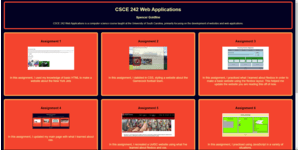
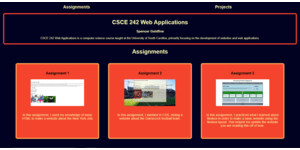
finished iFrame sections

diff --git a/projects/part3/project/script.js b/projects/part3/project/script.js
@@ -2,36 +2,14 @@ const toggleNav = () => {
     document.getElementById("main-nav-items").classList.toggle("hidden");
 }
 
-const toggleBio = () => {
-    document.getElementById("p1of5").classList.toggle("hidden");
-    document.getElementById("p2of5").classList.add("hidden");
-    document.getElementById("p3of5").classList.add("hidden");
-    document.getElementById("p4of5").classList.add("hidden");
-    document.getElementById("p5of5").classList.add("hidden");
+const showWebFrame = () => {
+    document.getElementById("framea").classList.toggle("hidden");
+    document.getElementById("webpic").classList.toggle("hidden");
 }
 
-const toggleExp = () => {
-    document.getElementById("p2of5").classList.toggle("hidden");
-    document.getElementById("p1of5").classList.add("hidden");
-    document.getElementById("p3of5").classList.add("hidden");
-    document.getElementById("p4of5").classList.add("hidden");
-    document.getElementById("p5of5").classList.add("hidden");
-}
-
-const toggleEdu = () => {
-    document.getElementById("p3of5").classList.toggle("hidden");
-    document.getElementById("p1of5").classList.add("hidden");
-    document.getElementById("p2of5").classList.add("hidden");
-    document.getElementById("p4of5").classList.add("hidden");
-    document.getElementById("p5of5").classList.add("hidden");
-}
-
-const toggleCont = () => {
-    document.getElementById("p5of5").classList.toggle("hidden");
-    document.getElementById("p1of5").classList.add("hidden");
-    document.getElementById("p2of5").classList.add("hidden");
-    document.getElementById("p3of5").classList.add("hidden");
-    document.getElementById("p4of5").classList.add("hidden");
+const showModernFrame = () => {
+    document.getElementById("frameb").classList.toggle("hidden");
+    document.getElementById("modernpic").classList.toggle("hidden");
 }
 
 const printProject = () => {
@@ -48,11 +26,10 @@ const printProject = () => {
 
 
 window.onload = () => {
+    document.getElementById("webpic").classList.remove("hidden");
+    document.getElementById("modernpic").classList.remove("hidden");
     document.getElementById("nav-toggle").onclick = toggleNav;
-    document.getElementById("p1of5").onclick = toggleBio;
-    document.getElementById("p2of5").onclick = toggleExp;
-    document.getElementById("p3of5").onclick = toggleEdu;
-    document.getElementById("p5of5").onclick = toggleCont;
     document.getElementById("button-add").onclick = printProject;
-
+    document.getElementById("weblink").onclick = showWebFrame;
+    document.getElementById("modernlink").onclick = showModernFrame;
 }

diff --git a/projects/part3/project/index.html b/projects/part3/project/index.html
@@ -29,27 +29,29 @@
             <h1 id="modern">Computing in the Modern World</h1>
             <section class="modern">
                 <section class="sec1">
-                    <p><span>sgoldfine.github.io/csce190</span></p>
+                    <p><span><a href="https://sgoldfine.github.io/csce190/" id="modernlink" target="iframe_b">sgoldfine.github.io/csce190</a></span></p>
                     <ul>
                         <li>Website created in CSCE 190 - Computing in the Modern World</li>
                         <li>Implements beginner HTML and CSS</li>
                         <li>Goal of the website is to learn the basics of website development</li>
                         <li>Styled to get an understanding of CSS rather than look professional</li>
                     </ul>
-                    <a href="../../../csce190/index.html"><img src="../images/modern.png" alt="CSCE 190 Website"></a>
+                    <img src="../images/modern.png" class="hidden" id="modernpic">
+                    <iframe id="frameb" name="iframe_b" src="" style="border:3px solid #363537" height="400px" width="100%" class="hidden"></iframe>
                     </section>
             </section>
             <h1 id="web">Web Applications</h1>
             <section class="web">
                 <section class="sec2">
-                    <p><span>sgoldfine.github.io</span></p>
+                    <p><span><a href="https://sgoldfine.github.io/" id="weblink" target="iframe_a">sgoldfine.github.io</a></span></p>
                     <ul>
                         <li>Website created in CSCE 242 - Web Applications</li>
                         <li>Implements JavaScript, HTML, and CSS</li>
                         <li>Goal of the website is to use advanced techniques to create exercises and become proficient in website development</li>
                         <li>Styled to look clean and professional</li>
                     </ul>
-                    <a href="../../../index.html"><img src="../images/web.png" alt="CSCE 242 Website"></a>
+                    <img src="../images/web.png" class="hidden" id="webpic">
+                    <iframe id="framea" name="iframe_a" src="" style="border:3px solid #363537" height="400px" width="100%" class="hidden"></iframe>
                 </section>
             </section>
             <h1 id="soft">Software Engineering</h1>

diff --git a/projects/part3/project/styles.css b/projects/part3/project/styles.css
@@ -30,7 +30,6 @@ h3 {
 .sec1,
 .sec2,
 .sec3,
-newproject,
 #main-nav-items {
     margin: 10px;
     padding: 10px 10px;
@@ -136,6 +135,15 @@ span {
 
 #main-footer {
     font-weight: bolder;
+}
+
+a {
+    text-decoration: none;
+    color: black;
+}
+
+a:hover {
+    color: #788BFF;
 }
 
 /*Larger Resolution*/
